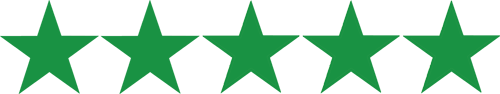
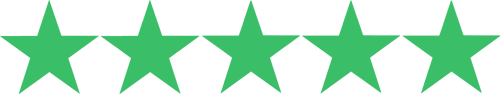
Tweak colours and loading.gif

diff --git a/sass/screens/_screen.scss b/sass/screens/_screen.scss
@@ -1,7 +1,7 @@
 @import './../vars/colors';
 
 /* Local variables */
-$screen-background: $grey-silver-chalice;
+$screen-background: $grey-alto;
 
 
 /**
@@ -12,6 +12,9 @@ $screen-background: $grey-silver-chalice;
     width: 100%;
     min-height: 100%;
 	padding: 1em;
-    background-color: $screen-background;
 	border-radius: 6px;
+    background-color: $screen-background;
+	background-image: url('../img/screen-background.png');
+	background-repeat: no-repeat;
+	background-size: cover;
 }

diff --git a/sass/screens/_splash.scss b/sass/screens/_splash.scss
@@ -1,16 +1,16 @@
 @import './../vars/colors';
 
 /* Local variables */
-$splash-background: $grey-shark;
 $splash-text: rgba($white, 0.8);
+$splash-title: $green-emerald;
 
 
 /**
  * First screen of the app.
  */
 .s-splash {
-	background-color: $splash-background;
 	color: $splash-text;
+	background-image: none;
 }
 
 
@@ -44,6 +44,7 @@ $splash-text: rgba($white, 0.8);
 	text-transform: uppercase;
 	font-weight: bold;
 	font-size: 2rem;
+	color: $splash-title;
 }
 
 

diff --git a/sass/components/_event-list.scss b/sass/components/_event-list.scss
@@ -3,9 +3,9 @@
 
 /* Local variables */
 $event-list-item-background: $white;
-$event-list-item-title: $green-jewel;
-$event-list-item-text: rgba($green-jewel, 0.75);
-$event-list-active-border: $green-jewel;
+$event-list-item-title: $green-emerald;
+$event-list-item-text: rgba($green-emerald, 0.75);
+$event-list-active-border: $green-emerald;
 
 
 .c-event-list__item {

diff --git a/sass/vars/_colors.scss b/sass/vars/_colors.scss
@@ -1,6 +1,7 @@
 
 /* Green hues */
 $green-jewel: #199343;
+$green-emerald: #3abe67;
 
 
 /* Grey hues */
@@ -8,6 +9,8 @@ $grey-shark: #27282d;
 $grey-tuna: #393a3f;
 $grey-nobel: #b7b7b7;
 $grey-silver-chalice: #a8a5a5;
+$grey-alto: #e0e0e0;
+
 
 /* B&W */
 $white: #fff;

diff --git a/sass/layout/_view-navigation.scss b/sass/layout/_view-navigation.scss
@@ -1,7 +1,7 @@
 
 /* Local variables */
-$navigation-item-background: $green-jewel;
-$navigation-item-background-active: rgba($green-jewel, 0.5);
+$navigation-item-background: $green-emerald;
+$navigation-item-background-active: rgba($green-emerald, 0.5);
 
 
 /**

diff --git a/sass/layout/_view-info.scss b/sass/layout/_view-info.scss
@@ -2,7 +2,7 @@
 
 
 /* Local variables */
-$view-info-background: $green-jewel;
+$view-info-background: $green-emerald;
 $view-info-title: $white;
 $view-info-body: rgba($white, 0.7);
 
